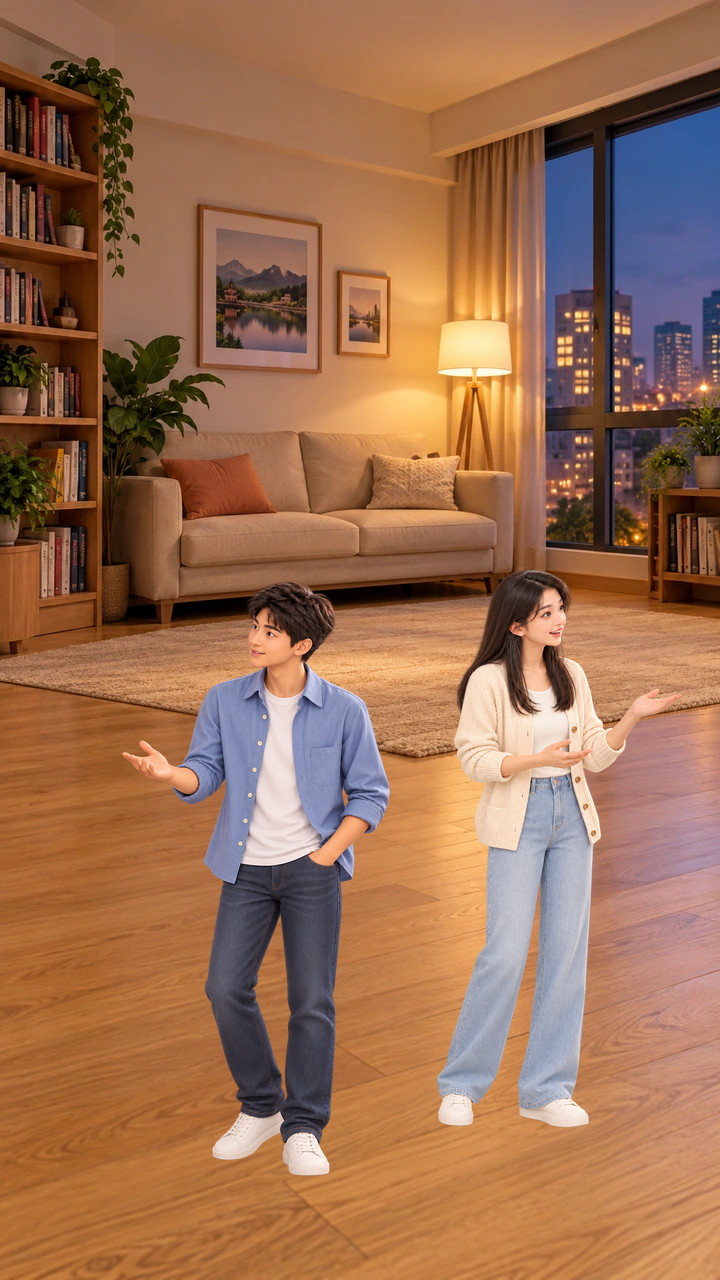
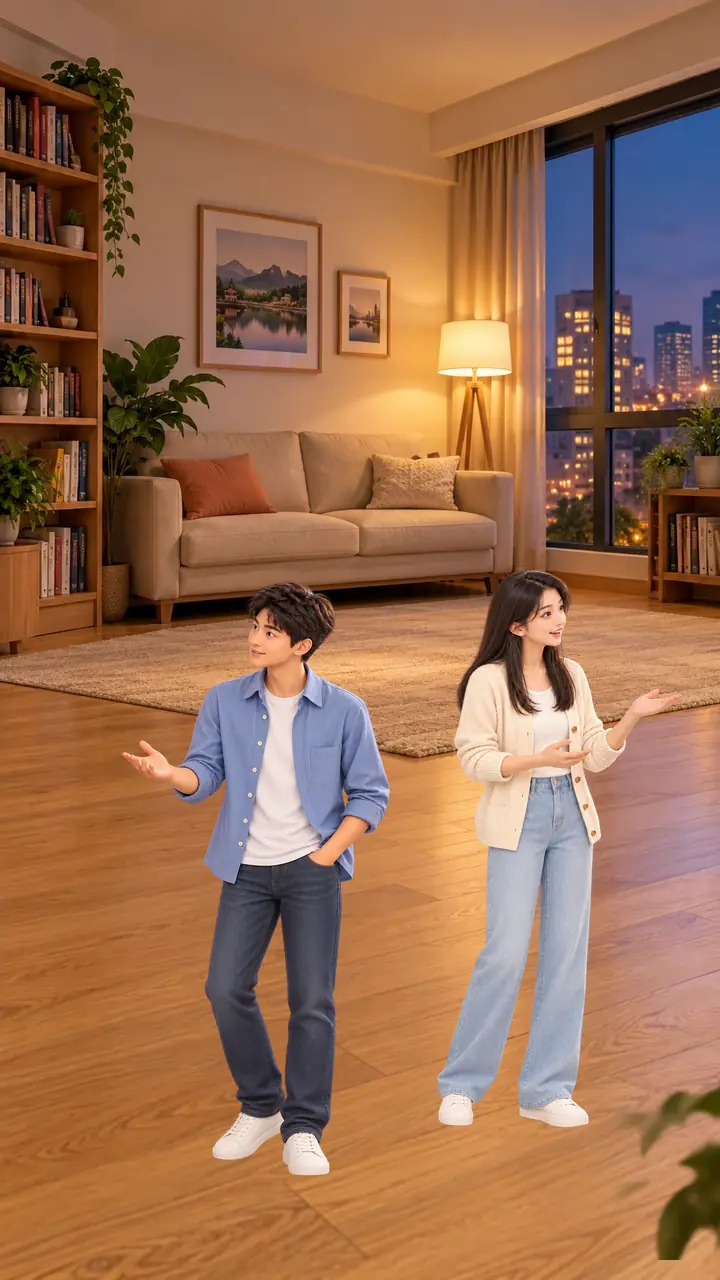
[skip ci] Repair SC045 review FG and Preview; retain canonical acceptance gates

Changed region(s): [[0.8556, 0.8438, 1.0, 1.0]]

diff --git a/content/hsk6/sc045/review_candidates/20261026/QA_PENDING_README.md b/content/hsk6/sc045/review_candidates/20261026/QA_PENDING_README.md
@@ -1,7 +1,21 @@
 # HSK6 SC045 visual candidate — QA PENDING
 
-This folder contains a review-only, layered visual candidate. It is NOT a canonical or accepted runtime scene.
-Do not replace content/hsk6/sc045/assets with these files or mark the visual status COMPLETE.
-All five WebPs are 720x1280. Reconstructed BG + CHAR_B (Zhang Wei) + CHAR_A (Li Na) + FG equals the preview pixel for pixel.
-Outstanding acceptance gates: original canonical facial identity/CGI continuity is unproven, the FG layer is fully transparent, and location/camera continuity has not passed final physical QA.
-Prior Golden/COMPLETE/HOLD/REVIEW records are unchanged.
+This directory contains review-only visual sources, NOT canonical runtime assets.
+
+## Targeted foreground correction (2026-10-26)
+
+- BG and both character WebPs remain byte-for-byte unchanged from the prior review package.
+- FG now contains isolated, soft-focus near-camera foliage restricted to the lower-right border (720x1280, transparent elsewhere). It is no longer blank.
+- FG visible pixels (>5 alpha): 10,162. Bounding rectangle: (610,1043)-(720,1260).
+- FG overlaps neither character alpha mask; faces and speaking gestures remain uncovered.
+- Updated Preview composites BG, Zhang Wei, Li Na and the repaired FG at 720x1280.
+- The lossless Pillow composite is pixel-exact against the four original and revised layers. Review Preview uses WebP quality 75 (mean absolute channel error 2.55/255 vs the lossless composite), with visual inspection.
+- Positive tests: nonempty FG, zero character overlap, 720x1280, valid transparent layer, composite reconstruction.
+- Negative tests: blank FG rejected; FG artificially covering the speaker face rejected.
+
+## Still pending — DO NOT MARK COMPLETE
+
+- The generated faces in the candidate do not yet have proven approval against the across-HSK canonical character identity and CGI style.
+- The changed BG/camera geometry is not formally accepted for Zhang Wei's home.
+- Runtime files in content/hsk6/sc045/assets and visual/media status must remain untouched.
+- Golden, historical COMPLETE, HOLD, and REVIEW locks remain unchanged.
